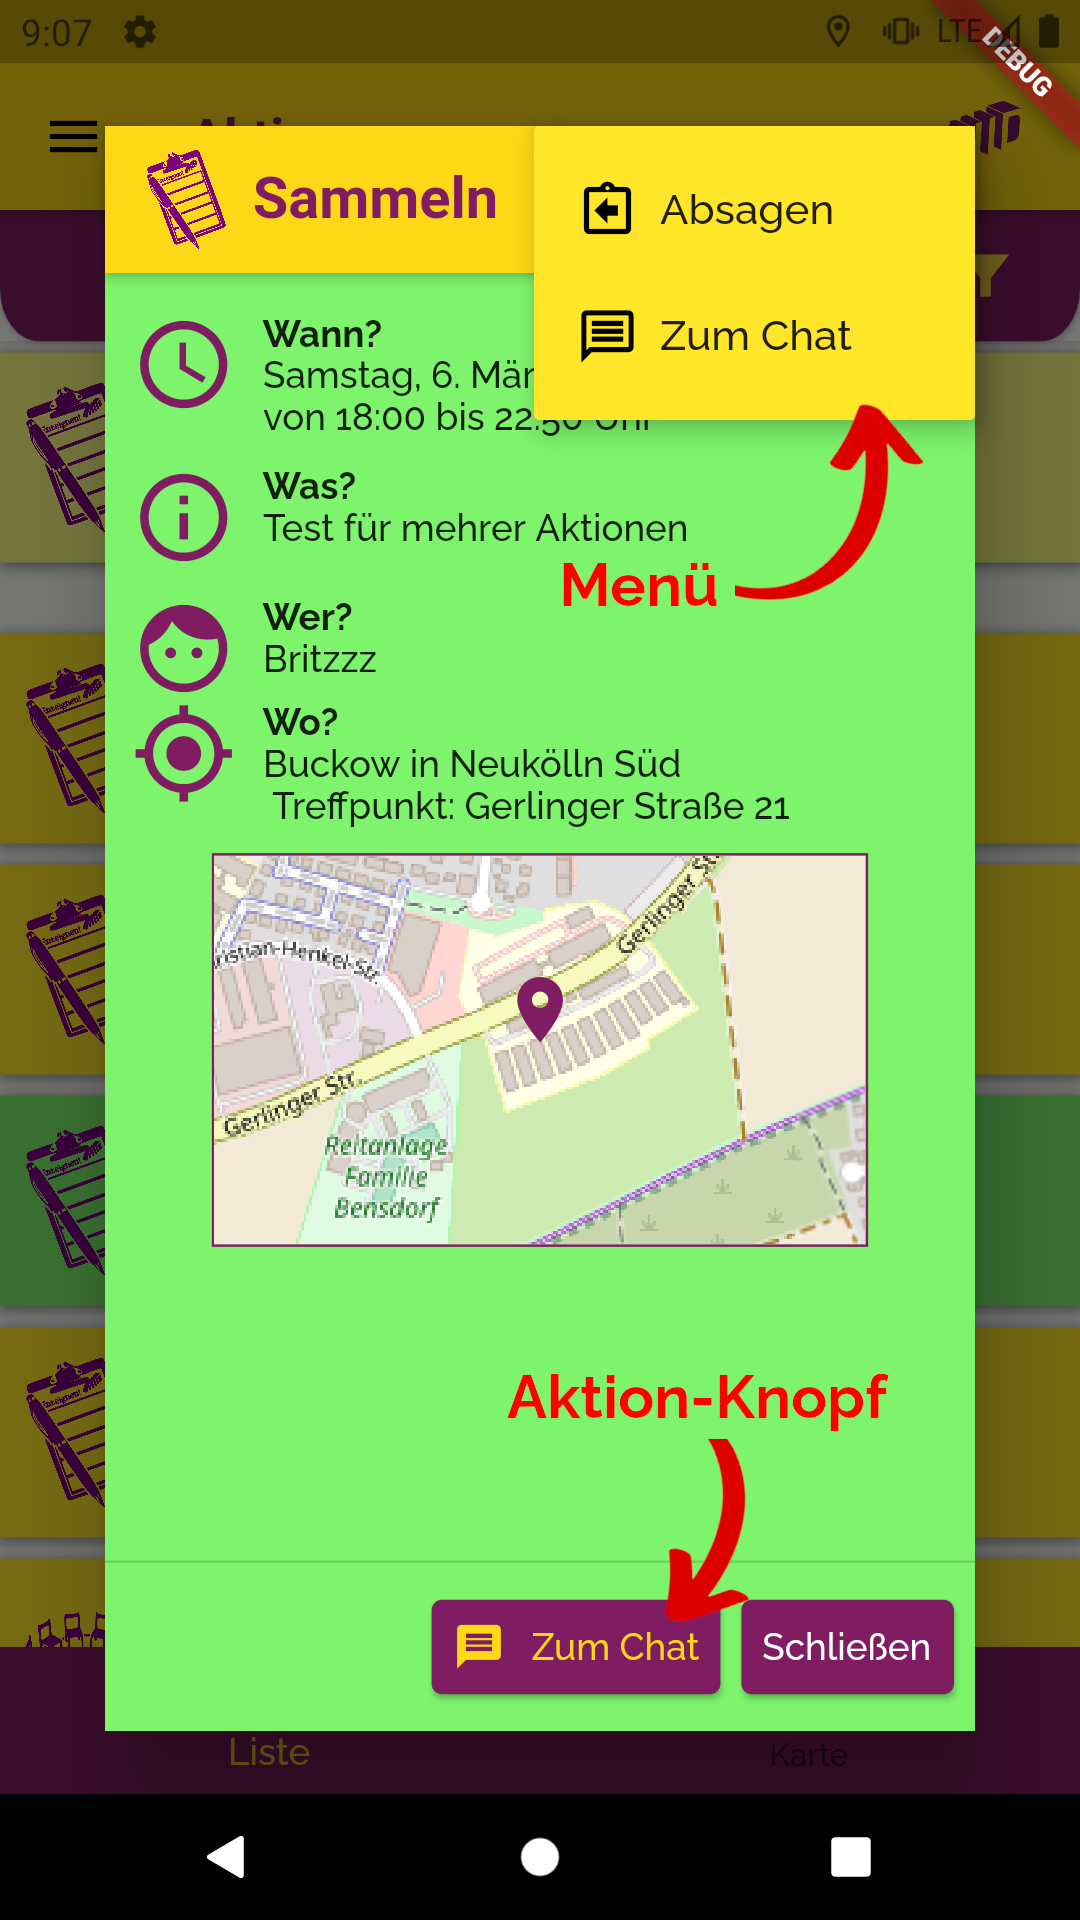
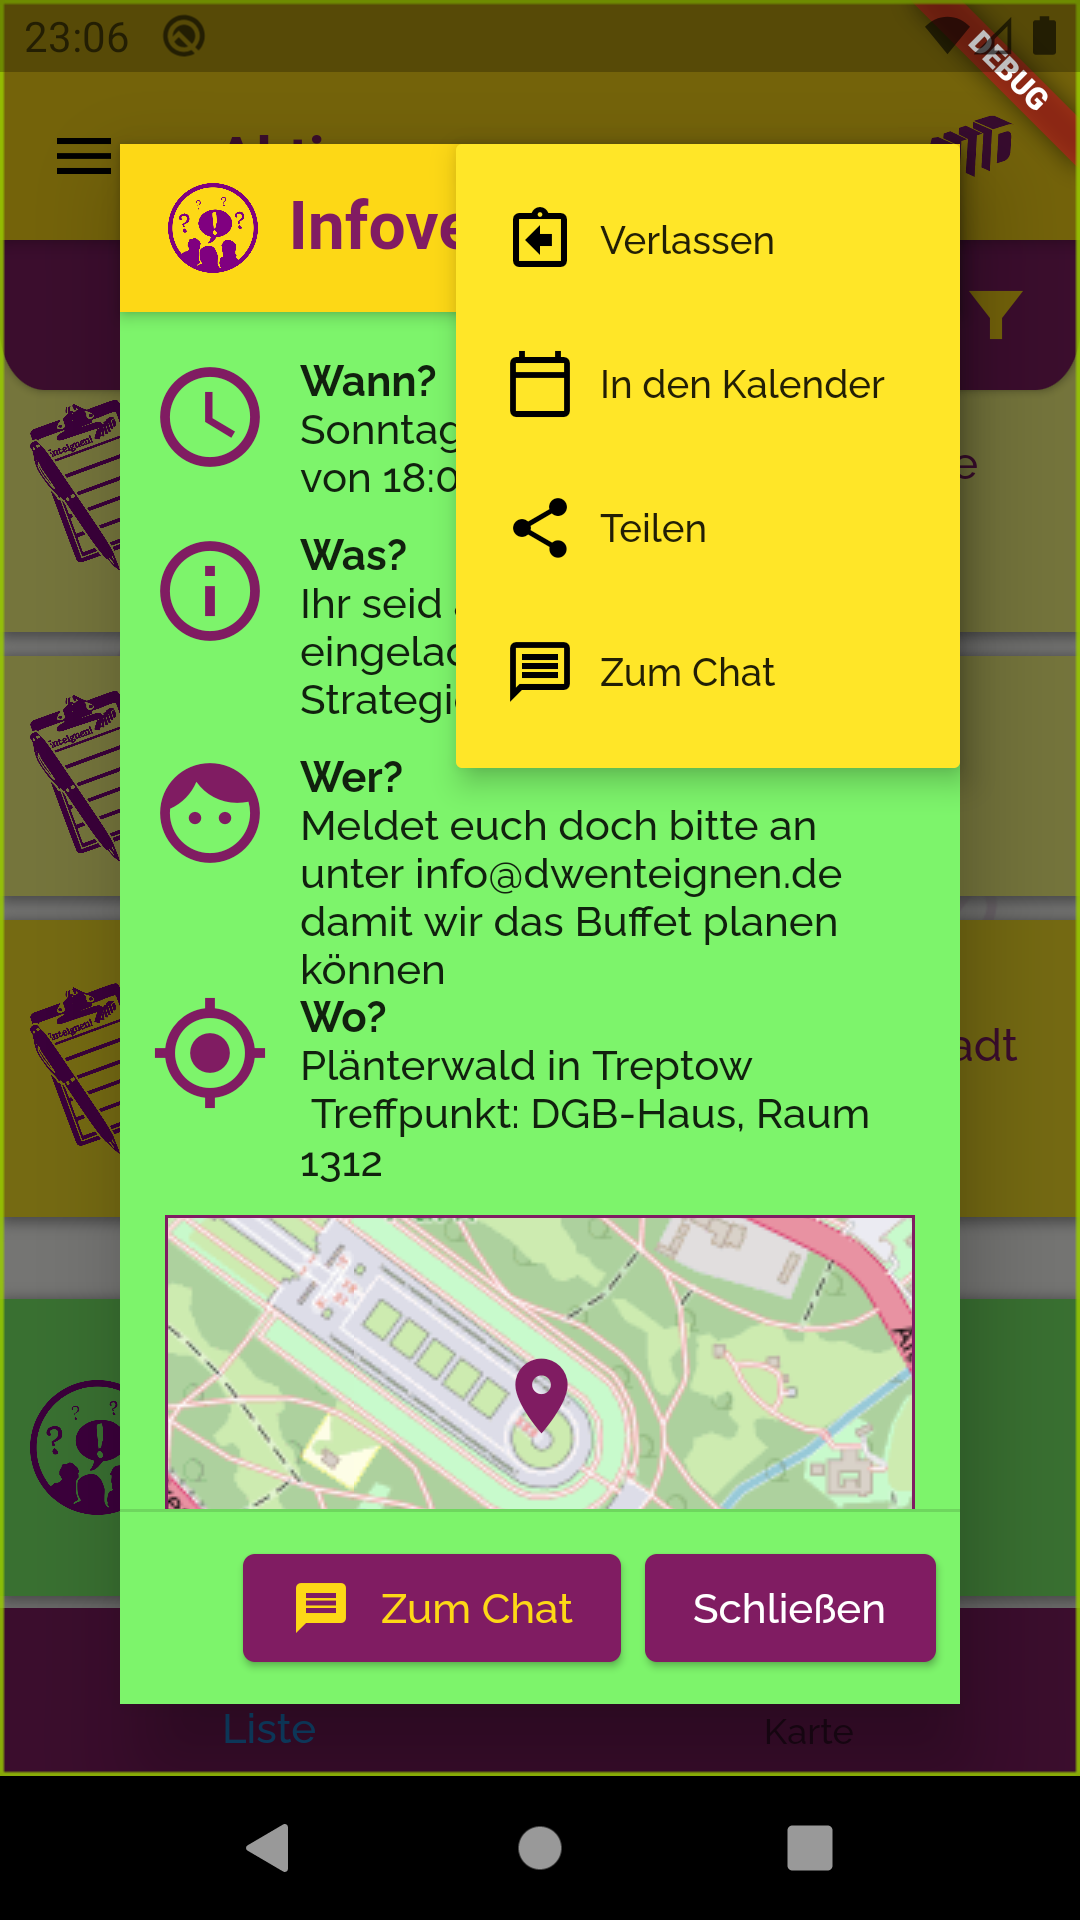
geteilte Aktionen öffnen #206 - Anleitung

diff --git a/sammel_app/lib/services/FAQService.dart b/sammel_app/lib/services/FAQService.dart
@@ -409,22 +409,6 @@ class FAQService {
       "Share Deals"
     ]),
     FAQItem(
-        20,
-        'Wir haben den Mietendeckel, ist da die Vergesellschaftung überhaupt noch notwendig?',
-        Text(
-            '''Der Mietendeckel ist (leider) rechtlich unsicher. Das Bundesverfassungsgericht könnte ihn kippen. Zudem gilt er nur für fünf Jahre und schon jetzt hat die SPD-Führung angekündigt, ihn nicht verlängern zu wollen. Dann drohen massenhaft Mieterhöhungen.
-Beide Gesetze, Mietendeckel und Vergesellschaftung, können nebeneinander stehen: Der Mietendeckel reguliert, Vergesellschaftung denkt Wohnen neu, denn mit Mieten soll kein Profit mehr gemacht werden!'''),
-        Text(
-            '''Der Mietendeckel ist (leider) rechtlich unsicher. Das Bundesverfassungsgericht könnte ihn kippen. Zudem gilt er nur für fünf Jahre und schon jetzt hat die SPD-Führung angekündigt, ihn nicht verlängern zu wollen. Dann drohen massenhaft Mieterhöhungen.
-Beide Gesetze, Mietendeckel und Vergesellschaftung, können nebeneinander stehen: Der Mietendeckel...'''),
-        '''Der Mietendeckel ist (leider) rechtlich unsicher. Das Bundesverfassungsgericht könnte ihn kippen. Zudem gilt er nur für fünf Jahre und schon jetzt hat die SPD-Führung angekündigt, ihn nicht verlängern zu wollen...''',
-        [
-          'Mietendeckel',
-          'Vergesellschaftung',
-          'Mieterhöhung',
-          'Mietenstopp',
-        ]),
-    FAQItem(
         21,
         "Was kostet uns die Vergesellschaftung?",
         Text(textWasKostetSieVergesellschaftung),
@@ -704,6 +688,8 @@ Beide Gesetze, Mietendeckel und Vergesellschaftung, können nebeneinander stehen
         Text('• deine Teilnahme an Aktionen ankündigen\n'
             '• Zum Aktions-Chat gelangen\n'
             '• deine Teilnahme an Aktionen absagen\n'
+            '• die Aktion in deinen Handy-Kalender übertragen'
+            '• die Aktion teilen und als Link verschicken, der die App öffnet un die Aktion anzeigt'
             '• Bericht zu vergangenen AKtionen abgeben (mit wichtigen Infos für die Kiezteams)\n'
             '• und eigene Aktionen bearbeiten\n'
             '• oder löschen\n'),
@@ -797,6 +783,8 @@ Beide Gesetze, Mietendeckel und Vergesellschaftung, können nebeneinander stehen
           '• deine Teilnahme an Aktionen ankündigen\n'
           '• Zum Aktions-Chat gelangen\n'
           '• deine Teilnahme an Aktionen absagen\n'
+          '• die Aktion in deinen Handy-Kalender übertragen'
+          '• die Aktion teilen und als Link verschicken, der die App öffnet un die Aktion anzeigt'
           '• Bericht zu vergangenen AKtionen abgeben (mit wichtigen Infos für die Kiezteams)\n'
           '• und eigene Aktionen bearbeiten\n'
           '• oder löschen '
